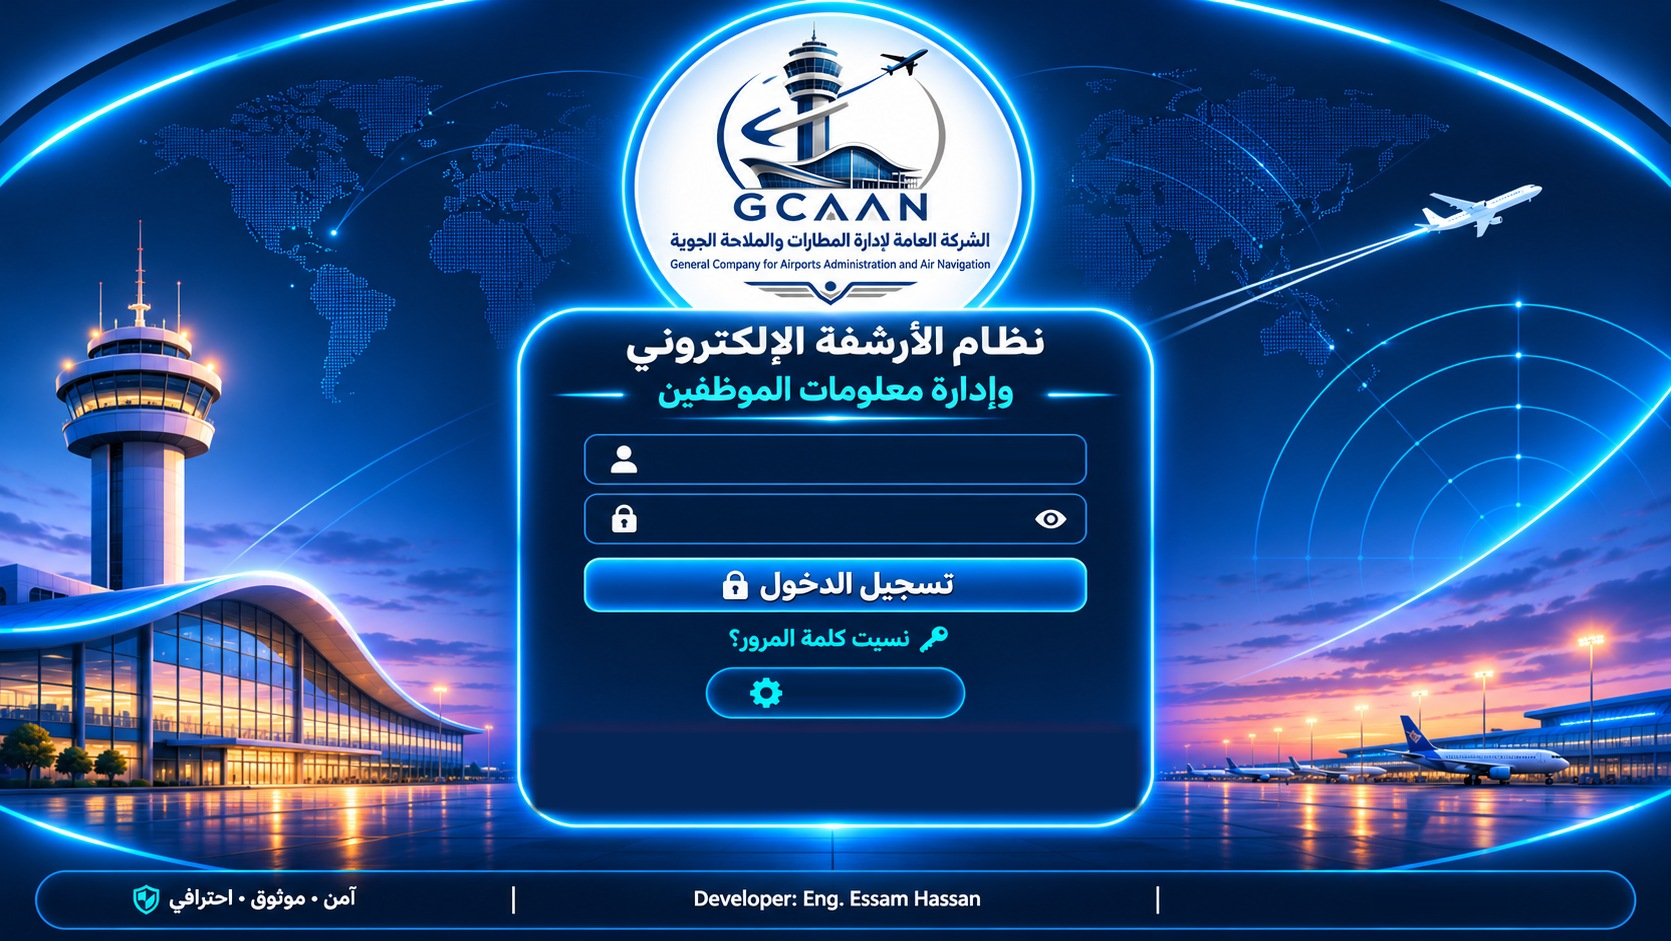
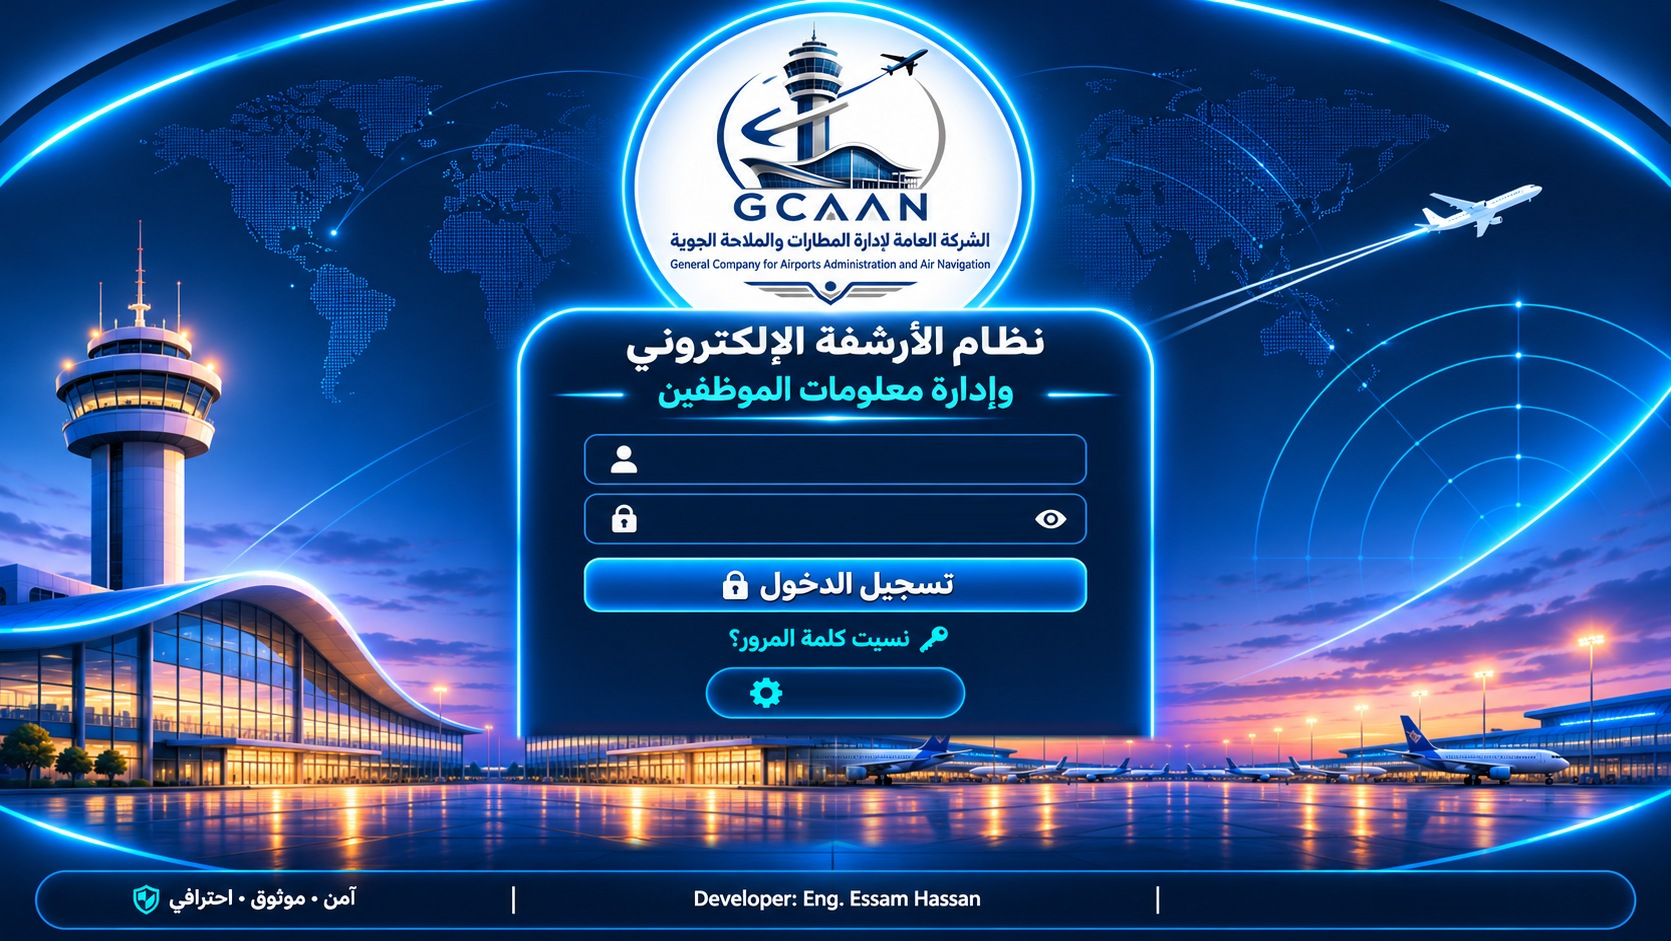
Login: card ends under the unit pill and grows only for a message
- The card's bottom edge and sides are now two cut-outs of the design
  (login-card-bottom.png, login-card-side.png), so the card can end right
  under the unit pill and extend, with a short animation, only while a
  message is shown.
- The airport scene behind the old card bottom is rebuilt from the
  scenery on both sides, so it shows through when the card is collapsed.
- Inputs no longer show the default focus rectangle.

Claude-Session: https://claude.ai/code/session_01SRpcsCwAexirX8TrMjc78q

Changed region(s): [[0.2801, 0.7705, 0.7157, 0.9245]]

diff --git a/src/styles/login.css b/src/styles/login.css
@@ -30,9 +30,22 @@
 .login-unit-name{--x0:790;--y0:674;--x1:935;--y1:710}
 .login-message{--x0:534;--y0:728;--x1:1138;--y1:805}
 .login-version{--x0:1374;--y0:883;--x1:1508;--y1:915}
-.login-box,.login-hit,.login-unit-name,.login-message,.login-version{
+.login-box,.login-hit,.login-unit-name,.login-message,.login-version,.login-card-ext,.login-card-cap{
   left:calc((var(--x0) - 835.5) * var(--px));top:calc((var(--y0) - 470.5) * var(--px));
   width:calc((var(--x1) - var(--x0)) * var(--px));height:calc((var(--y1) - var(--y0)) * var(--px));
+}
+
+/* Card bottom: drawn from two cut-outs of the design so the card can end right
+   under the unit pill and grow only while a message is shown. The airport scene
+   behind the old bottom shows through when it is collapsed. */
+.login-card-ext,.login-card-cap{--x0:498;--x1:1174;pointer-events:none;transition:height .25s ease,top .25s ease}
+.login-stage{--ext:0}
+.login-stage:has(.login-message:not(.hidden)){--ext:54}
+.login-card-ext{--y0:722;--y1:calc(722 + var(--ext));background:url('../assets/login-card-side.png') 0 0 / 100% 100% no-repeat}
+.login-card-cap{--y0:calc(722 + var(--ext));--y1:calc(808 + var(--ext));background:url('../assets/login-card-bottom.png') 0 0 / 100% 100% no-repeat}
+/* Blend the first rows into the card above, so there is no seam where the cut-outs start. */
+.login-card-ext,.login-stage:not(:has(.login-message:not(.hidden))) .login-card-cap{
+  -webkit-mask-image:linear-gradient(to bottom,transparent 0,#000 calc(10 * var(--px)));mask-image:linear-gradient(to bottom,transparent 0,#000 calc(10 * var(--px)));
 }
 
 /* Fields: the frame and icons are in the picture; the box only adds focus/error glow. */
@@ -43,6 +56,7 @@
   color:#fff;font-size:calc(21 * var(--px));font-weight:600;text-align:right;caret-color:#3ab4ff;
 }
 .login-box input::placeholder{color:#e3e9f1;opacity:1}
+.login-box input:focus,.login-box input:focus-visible{outline:0;border:0;box-shadow:none;background:transparent}
 .login-box-username input{right:calc(28 * var(--px));left:calc(70 * var(--px))}   /* text ends at x≈1057 like the design */
 .login-box-password input{right:calc(80 * var(--px));left:calc(70 * var(--px))}   /* ends at x≈1005, left of the eye */
 .login-box input:-webkit-autofill,.login-box input:-webkit-autofill:hover,.login-box input:-webkit-autofill:focus{
@@ -84,6 +98,8 @@
 .login-message.is-long{white-space:normal;font-size:calc(16 * var(--px));line-height:1.2}
 .login-message::before{content:"";position:absolute;inset:0;z-index:-1;background:url('../assets/login-error-box.png') center / 100% 100% no-repeat}
 .login-message.hidden{display:none}
+.login-message:not(.hidden){animation:login-message-in .25s ease .12s both}
+@keyframes login-message-in{from{opacity:0;transform:translateY(calc(-6 * var(--px)))}to{opacity:1;transform:none}}
 .login-message[data-kind="info"]::before{filter:hue-rotate(210deg) saturate(1.1)}
 .login-message[data-kind="caps"]::before{filter:hue-rotate(45deg) saturate(1.2)}
 

diff --git a/index.html b/index.html
@@ -15,6 +15,8 @@
          on the picture's own coordinates (see login.css). -->
     <main class="login-stage" aria-label="نظام الأرشفة الإلكتروني">
       <h1 class="sr-only">نظام الأرشفة الإلكتروني وإدارة معلومات الموظفين</h1>
+      <div class="login-card-ext" aria-hidden="true"></div>
+      <div class="login-card-cap" aria-hidden="true"></div>
       <form id="login-form" novalidate>
         <label class="login-box login-box-username">
           <input id="login-username" type="text" placeholder="اسم المستخدم" dir="rtl" autocomplete="username" aria-label="اسم المستخدم" />
